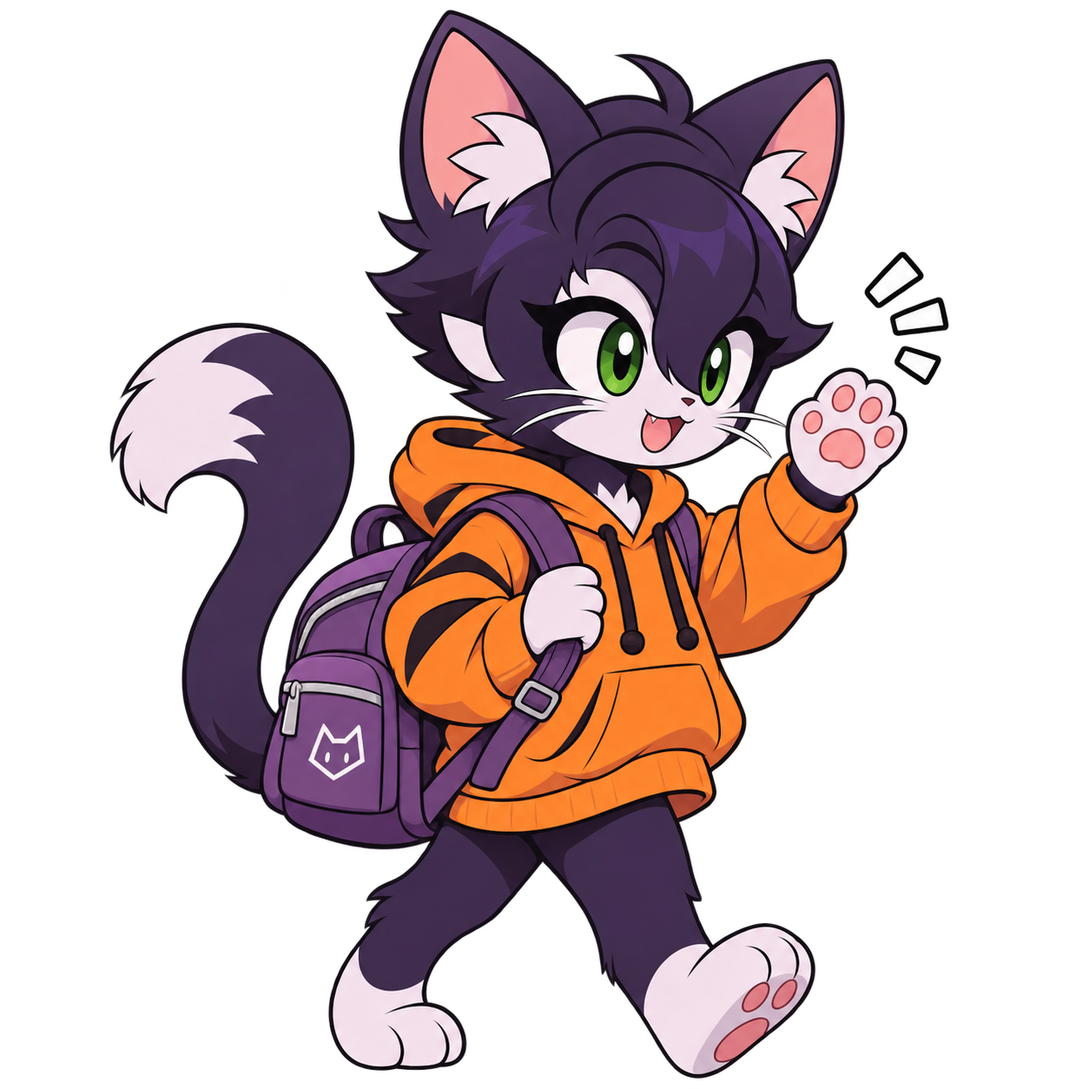
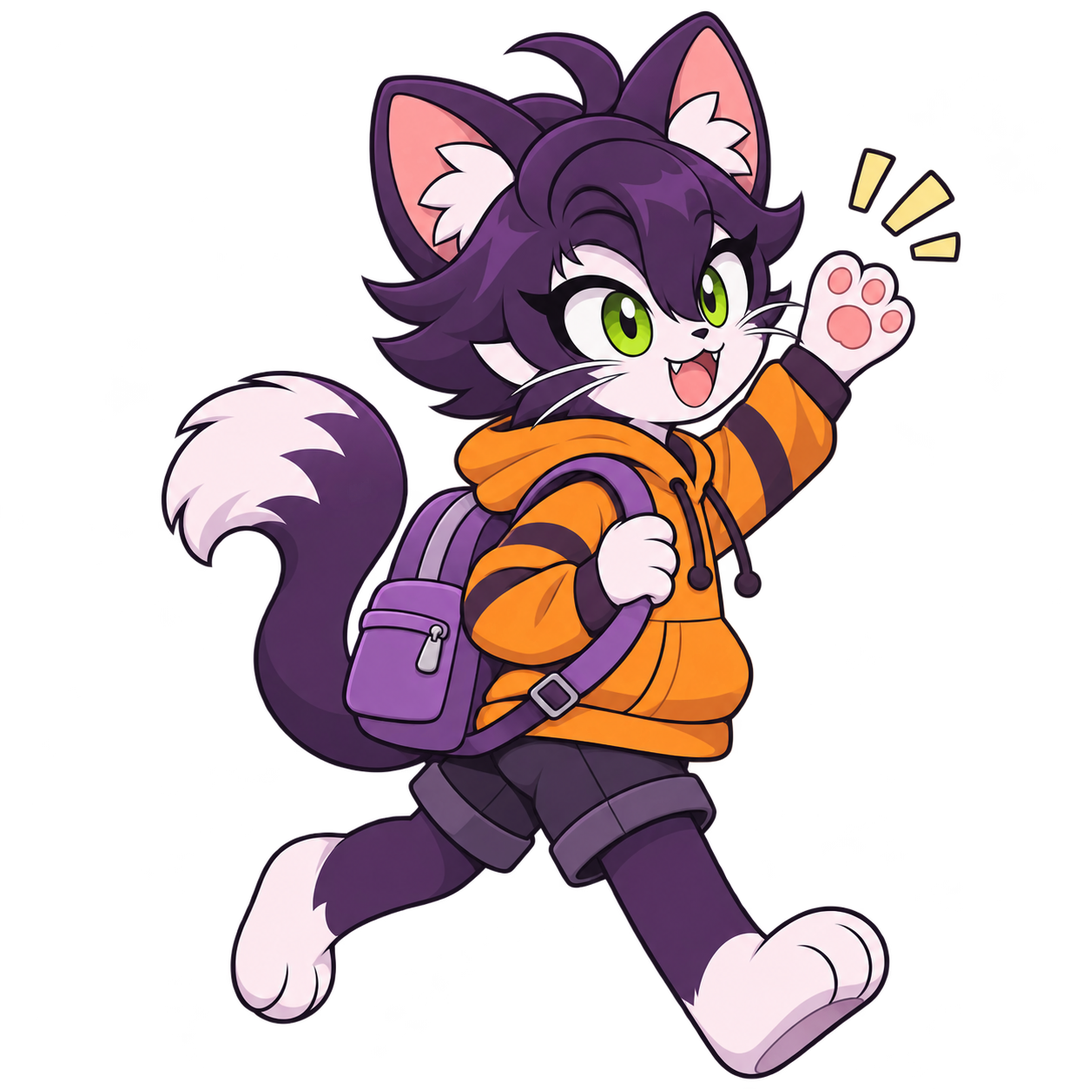
Refresh activity artwork with distinct poses and expressions

diff --git a/Shared/ClockModel.swift b/Shared/ClockModel.swift
@@ -51,7 +51,7 @@ enum Activity: String {
         case .focusedPC:   "Focused"
         case .lunch:       "Lunch"
         case .meeting:     "Meetings"
-        case .coffeeBreak: "Tea break"
+        case .coffeeBreak: "Coffee Break"
         case .leaving:     "Signing off"
         case .dinner:      "Dinner"
         case .relaxing:    "Off duty"

diff --git a/Docs/Art-Pipeline.md b/Docs/Art-Pipeline.md
@@ -1,58 +1,163 @@
 # Art Pipeline
 
-Activity captions use separate transparent manga lettering, composited over the
-character artwork. See [Label-Art.md](Label-Art.md) for assets and generation prompts.
+Activity captions remain separate transparent manga lettering; see [Label-Art.md](Label-Art.md).
 
-The current artwork uses `new-concept.png` as the character and style reference. All 13 activity illustrations were generated individually with the built-in imagegen tool, requesting a genuinely transparent background.
+## Character-first workflow
 
-`Art/<name>.png` contains the full-resolution master. `Shared/Assets.xcassets/cat_<name>.imageset/` contains a 480px copy with alpha preserved. Never convert these assets to RGB or add a background. The UI draws the silhouettes directly on a continuous sky.
+Generated with built-in imagegen, not the fallback CLI. First create `Art/character-design.png`, then use that sheet as the reference for each of the 13 independent activity generations. Preserve identity and drawing style, while varying posture, expression, outfit and essential furniture to make actions readable at widget size.
 
-## Reproduction prompts
+The design sheet has a white background. Every activity uses `transparent_background: true`. Reject painted backgrounds, background glow and multiple panels.
 
-Each scene uses the following template, replacing only the Scene sentence. Reference input: `new-concept.png`. Tool option: `transparent_background: true`.
+`Art/<name>.png` contains the full-resolution master. `Shared/Assets.xcassets/cat_<name>.imageset/<name>.png` contains the alpha-preserving 480px runtime copy. Asset names and labels are unchanged.
 
+## Design sheet prompt
+
+Reference input: the previous `Art/focused_pc.png` (before this regeneration), for identity and style only. Tool option: `transparent_background: false`.
+
+```text
+Use case: stylized-concept. Asset type: master character design reference sheet for an illustrated clock. Input image: character identity and drawing style reference only. Create a clean character model sheet of this same cute dark plum-purple anthropomorphic cat: large lime green eyes, white muzzle, cheek tufts, white paws and feet, fluffy swept forelock, large pink inner ears with white tufts, exactly one long fluffy purple tail with white tip. Preserve polished anime dark outlines and simple soft cel shading. Show full body front and side/three-quarter views in orange hoodie with black drawstrings and dark shorts, plus three expressive head studies (determined, yawning, delighted), plus a small full-body pale lavender button-up pajama outfit view. Consistent compact cute proportions. White background, orderly spacious layout, no text, no lettering, no watermark. This is a character reference sheet, not an activity scene. Entire bodies and tails visible.
 ```
-Use case: illustration-story. Asset: transparent macOS clock character illustration. Reference image is the exact character and art style guide. Draw this same charming dark plum-purple anthropomorphic cat, white muzzle, white paws and tail tip, large green eyes, swept fluffy hair, pink inner ears, orange hoodie with black drawstrings. Preserve the reference's polished anime ink outlines, soft cel shading and proportions faithfully. Scene: focused happily typing on a dark purple laptop, with a small coffee mug, simplified compact desk vignette. Composition: one centered character, square canvas, entire ears, tail and props visible with a little clear margin; large readable face; no rectangular scene or card. Genuine transparent background everywhere outside the character and essential props. No background, floor, lettering, watermark, sticker outline, or extra characters.
+
+## Final activity prompts
+
+Reference input for every prompt: `Art/character-design.png`. Tool option: `transparent_background: true`.
+
+### sleep
+
+```text
+Use case: illustration-story. Asset type: single transparent activity illustration for a small clock widget. Input image: master character design sheet, identity and style reference ONLY, do not reproduce the sheet layout or its poses. Draw exactly one of this same cute dark plum cat, lime green eyes, swept fluffy forelock, pink ears with white tufts, white muzzle and paws, exactly one fluffy white-tipped tail. Match polished dark anime outlines and simple cel shading throughout including props and food. Create a fresh expressive action composition. Square canvas, large readable character, entire ears and all essential props inside canvas with 5 percent margin. Isolated character with essential furniture only, genuine transparent background outside silhouettes, no room, floor, backdrop, card, text, letters, logos, watermarks or white sticker border. Scene: Sleeping deeply in a small wooden bed, lying horizontally on their side, head resting on a pillow, eyes completely closed and mouth relaxed. Wear lavender button-up pajamas from reference, with upper body visible above a soft purple blanket tucked over lower body. Clear bed headboard and short legs, gentle diagonal view. No hoodie. Bed and sleeping pose immediately recognizable.
 ```
 
-- **focused_pc**: focused happily typing on a dark purple laptop, with a small coffee mug, simplified compact desk vignette.
+### wake
 
-Inspect the generated image for character consistency, complete ears and tail, and genuine alpha before importing. Resize using an alpha-preserving image tool (for example `sips -Z 480`) and check the widget at daytime, nighttime and in reduced rendering modes.
+```text
+Use case: illustration-story. Asset type: single transparent activity illustration for a small clock widget. Input image: master character design sheet, identity and style reference ONLY, do not reproduce the sheet layout or its poses. Draw exactly one of this same cute dark plum cat, lime green eyes, swept fluffy forelock, pink ears with white tufts, white muzzle and paws, exactly one fluffy white-tipped tail. Match polished dark anime outlines and simple cel shading throughout including props and food. Create a fresh expressive action composition. Square canvas, large readable character, entire ears and all essential props inside canvas with 5 percent margin. Isolated character with essential furniture only, genuine transparent background outside silhouettes, no room, floor, backdrop, card, text, letters, logos, watermarks or white sticker border. Scene: Just waking up: seated on edge of a small bed with feet dangling, lavender pajamas, both arms stretched high and wide overhead, back arched, huge yawning mouth and shut eyes, rumpled forelock. Blanket pushed aside. Tall open V-shaped silhouette. No hoodie.
+```
 
-## Scene prompts
+### breakfast
 
-- **sleep**: sleeping peacefully curled up hugging a purple pillow, eyes closed, orange hoodie, fluffy tail wrapped around body, no bed or desk.
-- **wake**: waking up stretching both arms with a little yawn, seated on a small purple cushion, orange hoodie, no bed or desk.
-- **breakfast**: enjoying breakfast holding toast and a warm mug, orange hoodie, simple small plate of toast, no large table.
-- **sleepy_pc**: drowsily working at a dark purple laptop, half closed green eyes, one paw holding coffee, orange hoodie, minimal desk props.
-- **lunch**: happily eating a triangular lettuce, tomato and cheese sandwich held in both paws, orange hoodie, compact seated pose, minimal props.
-- **meeting**: cheerful video meeting wearing a headset and gesturing with one paw beside a dark purple laptop, orange hoodie.
-- **coffee_break**: taking a relaxing tea break, holding a steaming mug with both paws, eyes contentedly closed, orange hoodie, small cookie beside them.
-- **leaving**: walking home waving goodbye with one paw, wearing orange hoodie and a purple backpack, full body and tail visible.
-- **dinner**: enjoying a grilled steak dinner with vegetables, holding a fork with a bite of steak, orange hoodie, happy expression, minimal props.
-- **relaxing**: relaxing playing a video game with a purple controller held in both paws, seated on a small purple cushion, orange hoodie, excited green eyes.
-- **bedtime**: sleepily hugging a large purple pillow, eyes half closed yawning, orange hoodie, full tail visible, no bed.
-- **weekend**: enjoying a day off reading an open book seated comfortably with tail curled around a small purple cushion, orange hoodie, relaxed green eyes.
+```text
+Use case: illustration-story. Asset type: single transparent activity illustration for a small clock widget. Input image: master character design sheet, identity and style reference ONLY, do not reproduce the sheet layout or its poses. Draw exactly one of this same cute dark plum cat, lime green eyes, swept fluffy forelock, pink ears with white tufts, white muzzle and paws, exactly one fluffy white-tipped tail. Match polished dark anime outlines and simple cel shading throughout including props and food. Create a fresh expressive action composition. Square canvas, large readable character, entire ears and all essential props inside canvas with 5 percent margin. Isolated character with essential furniture only, genuine transparent background outside silhouettes, no room, floor, backdrop, card, text, letters, logos, watermarks or white sticker border. Scene: A bright energetic breakfast: standing in orange hoodie and dark shorts, holding a slice of buttered toast in one paw near an open smiling mouth, other paw pouring milk from a small plain pitcher into a cereal bowl on a tiny round breakfast table. Wide awake green eyes, ears perked. Body turned three-quarter toward viewer, upbeat upright posture. Food very simple flat cartoon shapes. Deliver ONE single isolated transparent cutout. No colored haze, glow, ground shadow or background.
+```
 
-Final corrections: reading has exactly one tail curled around the feet; the back of the meeting laptop has a simple white cat emblem, not a screen interface.
+### sleepy_pc
 
-## Meal illustration revision
+```text
+Use case: illustration-story. Asset type: single transparent activity illustration for a small clock widget. Input image: master character design sheet, identity and style reference ONLY, do not reproduce the sheet layout or its poses. Draw exactly one of this same cute dark plum cat, lime green eyes, swept fluffy forelock, pink ears with white tufts, white muzzle and paws, exactly one fluffy white-tipped tail. Match polished dark anime outlines and simple cel shading throughout including props and food. Create a fresh expressive action composition. Square canvas, large readable character, entire ears and all essential props inside canvas with 5 percent margin. Isolated character with essential furniture only, genuine transparent background outside silhouettes, no room, floor, backdrop, card, text, letters, logos, watermarks or white sticker border. Scene: Struggling to stay awake at a laptop on a compact desk: slumped deeply sideways in a chair, cheek squashed against one paw propped on desk, drooping eyelids with unfocused green eyes, small slack mouth, other paw limply over keyboard. Orange hoodie and dark shorts. Head hanging low, ears droop, utterly exhausted, visibly different from alert typing. One coffee mug nearby. Deliver ONE single isolated transparent cutout, not multiple panels. Transparent empty space surrounds all furniture.
+```
 
-Built-in imagegen precise-object edits of the previous lunch/dinner masters, with `transparent_background: true`.
+### focused_pc
 
-- **lunch**: Replace the ramen, bowl and chopsticks with a clearly recognizable triangular sandwich of sliced bread, lettuce, tomato and cheese. The cat is happily eating the sandwich, holding it in both paws near its mouth. No bowl, noodles or chopsticks remain.
-- **dinner**: Replace the pasta dinner with a grilled beef steak on the same plate, with clear sear marks and a small side of vegetables. The raised fork holds a bite-sized piece of steak near the mouth instead of pasta. No noodles or pasta remain. Keep the mug.
-
-Shared constraints: preserve character identity, dark purple fur, white markings, green eyes, orange hoodie, expression, ears, single tail, anime outlines and soft cel shading, framing, and genuine alpha. Change paws only as needed; no added text or background.
-
-## Food style unification (current)
-
-Built-in imagegen, transparent_background: true. These prompts supersede the earlier meal edits; food uses simple cel shading without realistic texture.
+```text
+Use case: illustration-story. Asset type: single transparent activity illustration for a small clock widget. Input image: master character design sheet, identity and style reference ONLY, do not reproduce the sheet layout or its poses. Draw exactly one of this same cute dark plum cat, lime green eyes, swept fluffy forelock, pink ears with white tufts, white muzzle and paws, exactly one fluffy white-tipped tail. Match polished dark anime outlines and simple cel shading throughout including props and food. Create a fresh expressive action composition. Square canvas, large readable character, entire ears and all essential props inside canvas with 5 percent margin. Isolated character with essential furniture only, genuine transparent background outside silhouettes, no room, floor, backdrop, card, text, letters, logos, watermarks or white sticker border. Scene: Working intensely at a laptop on a compact desk, leaning sharply forward, side three-quarter view, narrowed determined green eyes fixed on screen, mouth closed, both paws actively typing, ears alert, orange hoodie and dark shorts. Laptop screen faces cat. Compact chair, no coffee mug. Strong forward diagonal posture conveys concentration. Deliver ONE single isolated transparent cutout, not multiple panels. Transparent empty space surrounds all furniture.
+```
 
 ### lunch
 
-Use case: precise-object-edit. Input is the edit target. Redraw ALL food and food details in exactly the same simple anime/cartoon visual language as this cat's paws and hoodie: clean dark plum outlines of matching weight, smooth large flat color shapes, just one simple cel-shadow shape per surface. Food must look drawn by the same character artist, not pasted-in realistic food. No texture, stippling, pores, grain, speckles, realistic material rendering, intricate highlights, fine lines or microdetail. Preserve the cat identity, face, hair, fur, pose, orange hoodie, tail, composition, framing, utensils and other props. Genuine transparent background and alpha. No text or new objects. Keep the cat eating a triangular sandwich. Simplify bread to a completely smooth cream triangle and a plain tan crust, NO bread holes or dots. Fillings are just a few broad lettuce waves, one plain red tomato shape, one flat yellow cheese shape, each with at most one shadow tone. No seeds, veins, crumbs, gloss or tiny details. Make the entire sandwich as graphically simple as the hoodie.
+```text
+Use case: illustration-story. Asset type: single transparent activity illustration for a small clock widget. Input image: master character design sheet, identity and style reference ONLY, do not reproduce the sheet layout or its poses. Draw exactly one of this same cute dark plum cat, lime green eyes, swept fluffy forelock, pink ears with white tufts, white muzzle and paws, exactly one fluffy white-tipped tail. Match polished dark anime outlines and simple cel shading throughout including props and food. Create a fresh expressive action composition. Square canvas, large readable character, entire ears and all essential props inside canvas with 5 percent margin. Isolated character with essential furniture only, genuine transparent background outside silhouettes, no room, floor, backdrop, card, text, letters, logos, watermarks or white sticker border. Scene: Casual lunch break, sitting cross-legged on a small folded picnic cloth, leaning into a big triangular sandwich held in both paws and taking a big happy bite, cheeks puffed and delighted eyes curved shut. Orange hoodie and dark shorts. Small open lunchbox at their knee, sandwich has simple lettuce tomato cheese shapes. No table, cup, computer or chair. Clearly low compact cross-legged silhouette. Deliver ONE single isolated transparent cutout. No colored haze, glow, ground shadow or background.
+```
+
+### meeting
+
+```text
+Use case: illustration-story. Asset type: single transparent activity illustration for a small clock widget. Input image: master character design sheet, identity and style reference ONLY, do not reproduce the sheet layout or its poses. Draw exactly one of this same cute dark plum cat, lime green eyes, swept fluffy forelock, pink ears with white tufts, white muzzle and paws, exactly one fluffy white-tipped tail. Match polished dark anime outlines and simple cel shading throughout including props and food. Create a fresh expressive action composition. Square canvas, large readable character, entire ears and all essential props inside canvas with 5 percent margin. Isolated character with essential furniture only, genuine transparent background outside silhouettes, no room, floor, backdrop, card, text, letters, logos, watermarks or white sticker border. Scene: Energetically presenting at a meeting: standing full body beside a small freestanding presentation board showing only three simple colored bars and an upward line, no text. Orange hoodie and dark shorts, headset microphone, one arm confidently pointing to the board, other paw open toward audience, mouth open mid-explanation, eyebrows lifted. Wide assertive stance, full body visible. No laptop or desk. Deliver ONE single isolated transparent cutout, not multiple panels. Transparent empty space surrounds all furniture.
+```
+
+### coffee_break
+
+```text
+Use case: illustration-story. Asset type: single transparent activity illustration for a small clock widget. Input image: master character design sheet, identity and style reference ONLY, do not reproduce the sheet layout or its poses. Draw exactly one of this same cute dark plum cat, lime green eyes, swept fluffy forelock, pink ears with white tufts, white muzzle and paws, exactly one fluffy white-tipped tail. Match polished dark anime outlines and simple cel shading throughout including props and food. Create a fresh expressive action composition. Square canvas, large readable character, entire ears and all essential props inside canvas with 5 percent margin. Isolated character with essential furniture only, genuine transparent background outside silhouettes, no room, floor, backdrop, card, text, letters, logos, watermarks or white sticker border. Scene: Reclining comfortably in a compact armchair, legs crossed, one arm draped over armrest and other paw lifting a steaming coffee mug to nose, eyes closed with a contented smile. Orange hoodie and dark shorts. Backward diagonal pose. Only cat, chair and mug. Deliver ONE single isolated transparent cutout. No colored haze, glow, ground shadow or background.
+```
+
+### leaving
+
+```text
+Use case: illustration-story. Asset type: single transparent activity illustration for a small clock widget. Input image: master character design sheet, identity and style reference ONLY, do not reproduce the sheet layout or its poses. Draw exactly one of this same cute dark plum cat, lime green eyes, swept fluffy forelock, pink ears with white tufts, white muzzle and paws, exactly one fluffy white-tipped tail. Match polished dark anime outlines and simple cel shading throughout including props and food. Create a fresh expressive action composition. Square canvas, large readable character, entire ears and all essential props inside canvas with 5 percent margin. Isolated character with essential furniture only, genuine transparent background outside silhouettes, no room, floor, backdrop, card, text, letters, logos, watermarks or white sticker border. Scene: Full-body brisk walking stride, one foot forward and other raised behind, head turned back over shoulder, big cheerful smile, one paw waving high and other holding purple backpack strap. Orange hoodie and dark shorts, tail trailing. Only cat and backpack. Deliver ONE single isolated transparent cutout. No colored haze, glow, ground shadow or background.
+```
 
 ### dinner
 
-Use case: precise-object-edit. Input is the edit target. Redraw ALL food and food details in exactly the same simple anime/cartoon visual language as this cat's paws and hoodie: clean dark plum outlines of matching weight, smooth large flat color shapes, just one simple cel-shadow shape per surface. Food must look drawn by the same character artist, not pasted-in realistic food. No texture, stippling, pores, grain, speckles, realistic material rendering, intricate highlights, fine lines or microdetail. Preserve the cat identity, face, hair, fur, pose, orange hoodie, tail, composition, framing, utensils and other props. Genuine transparent background and alpha. No text or new objects. Keep the cat eating steak, with a steak bite on the fork and steak on the plate. Draw the steak as a simple rounded brown cartoon shape with only THREE broad dark diagonal grill stripes and one flat shadow. The fork bite is a plain brown/pink block with a clean outline and single cel shadow. Simplify side vegetables to a few smooth green/orange shapes. Remove herb sprigs, tiny florets, seeds, marbling, meat fibers, grain, shiny spots and all realistic food texture. Keep the plate and mug.
+```text
+Use case: illustration-story. Asset type: single transparent activity illustration for a small clock widget. Input image: master character design sheet, identity and style reference ONLY, do not reproduce the sheet layout or its poses. Draw exactly one of this same cute dark plum cat, lime green eyes, swept fluffy forelock, pink ears with white tufts, white muzzle and paws, exactly one fluffy white-tipped tail. Match polished dark anime outlines and simple cel shading throughout including props and food. Create a fresh expressive action composition. Square canvas, large readable character, entire ears and all essential props inside canvas with 5 percent margin. Isolated character with essential furniture only, genuine transparent background outside silhouettes, no room, floor, backdrop, card, text, letters, logos, watermarks or white sticker border. Scene: Enjoying steak dinner at a small dining table, orange hoodie and dark shorts, seated straight with a pleased expectant grin, a fork in one raised paw and a dinner knife in the other poised above a plate of steak and simple vegetables. Front three-quarter view, elbows spread, steak obvious with only three broad grill stripes. Simple candle in holder at table edge suggests evening. All food simple outlined cartoon cel shading, no realistic texture. Deliver ONE single isolated transparent cutout. No colored haze, glow, ground shadow or background.
+```
+
+### relaxing
+
+```text
+Use case: illustration-story. Asset type: single transparent activity illustration for a small clock widget. Input image: master character design sheet, identity and style reference ONLY, do not reproduce the sheet layout or its poses. Draw exactly one of this same cute dark plum cat, lime green eyes, swept fluffy forelock, pink ears with white tufts, white muzzle and paws, exactly one fluffy white-tipped tail. Match polished dark anime outlines and simple cel shading throughout including props and food. Create a fresh expressive action composition. Square canvas, large readable character, entire ears and all essential props inside canvas with 5 percent margin. Isolated character with essential furniture only, genuine transparent background outside silhouettes, no room, floor, backdrop, card, text, letters, logos, watermarks or white sticker border. Scene: Excited gaming, sprawling diagonally across a compact beanbag, one leg stretched toward foreground and other bent, leaning back, both paws grip purple game controller, wide intense green eyes and exuberant open grin. Orange hoodie and dark shorts. Only cat, beanbag and controller. Deliver ONE single isolated transparent cutout. No colored haze, glow, ground shadow or background.
+```
+
+### bedtime
+
+```text
+Use case: illustration-story. Asset type: single transparent activity illustration for a small clock widget. Input image: master character design sheet, identity and style reference ONLY, do not reproduce the sheet layout or its poses. Draw exactly one of this same cute dark plum cat, lime green eyes, swept fluffy forelock, pink ears with white tufts, white muzzle and paws, exactly one fluffy white-tipped tail. Match polished dark anime outlines and simple cel shading throughout including props and food. Create a fresh expressive action composition. Square canvas, large readable character, entire ears and all essential props inside canvas with 5 percent margin. Isolated character with essential furniture only, genuine transparent background outside silhouettes, no room, floor, backdrop, card, text, letters, logos, watermarks or white sticker border. Scene: Getting ready for bed, standing full body in lavender pajamas and slippers, cradling a large pillow under one arm while rubbing one drooping eye with the other paw, head tilted and mouth making a little yawn. Slouched sleepy standing posture. No bed, no hoodie.
+```
+
+### weekend
+
+```text
+Use case: illustration-story. Asset type: single transparent activity illustration for a small clock widget. Input image: master character design sheet, identity and style reference ONLY, do not reproduce the sheet layout or its poses. Draw exactly one of this same cute dark plum cat, lime green eyes, swept fluffy forelock, pink ears with white tufts, white muzzle and paws, exactly one fluffy white-tipped tail. Match polished dark anime outlines and simple cel shading throughout including props and food. Create a fresh expressive action composition. Square canvas, large readable character, entire ears and all essential props inside canvas with 5 percent margin. Isolated character with essential furniture only, genuine transparent background outside silhouettes, no room, floor, backdrop, card, text, letters, logos, watermarks or white sticker border. Scene: Reading quietly, lounging sideways in a compact armchair, legs curled over one armrest, open purple book on raised knees held in both paws, thoughtful green eyes looking down at book and subtle serene smile. Cream T-shirt and dark shorts, tail draped beside chair. Side view, relaxed horizontal silhouette. Only cat, chair and book. Deliver ONE single isolated transparent cutout. No colored haze, glow, ground shadow or background.
+```
+
+## Import and validation
+
+Resize with `sips -Z 480 Art/<name>.png --out Shared/Assets.xcassets/cat_<name>.imageset/<name>.png`. Preserve alpha; never flatten onto a background. Check all 13 names, runtime dimensions, transparent pixels, complete silhouettes, and readable expressions and props on light and dark backgrounds at small sizes.
+
+## Follow-up adjustments (current)
+
+These built-in imagegen edits supersede the corresponding initial scene prompts above. Input: the activity master generated above as the edit target. Tool option: `transparent_background: true`. Keep the same filenames and regenerate the 480px runtime copies.
+
+### meeting
+
+```text
+Use case: precise-object-edit. Input image is the edit target. Preserve this exact cat identity, dark plum fur, white markings, green eyes, hair, orange hoodie, dark shorts, single tail, polished anime outlines, simple cel shading, square framing and genuine transparent alpha background. Keep everything unchanged except the requested changes. No background, floor, glow, text or watermark. Replace the standing presentation scene with a friendly web video meeting: cat seated comfortably at a compact desk with straight vertical legs, wearing its headset with boom microphone, looking toward an open laptop, one paw raised in a gentle conversational open-hand gesture and the other resting beside the keyboard. Soft relaxed eyebrows and rounded friendly eyes, small warm smile while speaking, no intense or assertive expression. Remove presentation board and chart entirely. Show laptop from rear three-quarter view, screen facing cat; no interface on back of laptop. Full chair and feet visible. Preserve character and illustration style, but change pose and furniture as required.
+```
+
+### dinner
+
+```text
+Use case: precise-object-edit. Input image is the edit target. Preserve this exact cat identity, dark plum fur, white markings, green eyes, hair, orange hoodie, dark shorts, single tail, polished anime outlines, simple cel shading, square framing and genuine transparent alpha background. Keep everything unchanged except the requested changes. No background, floor, glow, text or watermark. Remove the candle, flame and entire candle holder from the dining table. Fill their former location with the plain continuous wooden tabletop, leaving that area empty. Preserve all other content, especially face, pose, plate, food, utensils, chair and table shape.
+```
+
+### sleepy_pc
+
+```text
+Use case: precise-object-edit. Input image is the edit target. Preserve this exact cat identity, dark plum fur, white markings, green eyes, hair, orange hoodie, dark shorts, single tail, polished anime outlines, simple cel shading, square framing and genuine transparent alpha background. Keep everything unchanged except the requested changes. No background, floor, glow, text or watermark. Move the coffee mug and its coaster from the far side/back of the laptop to the near edge of the desk next to the cat's free paw, within easy reach, on the cat's side of the laptop. Ensure mug rests fully on tabletop with clear space and does not overlap the keyboard or paw. Remove mug from its original location, leaving only one mug. Preserve drowsy expression, slumped posture, laptop, chair and desk.
+```
+
+### relaxing
+
+```text
+Use case: precise-object-edit. Input image is the edit target. Preserve this exact cat identity, dark plum fur, white markings, green eyes, hair, orange hoodie, dark shorts, single tail, polished anime outlines, simple cel shading, square framing and genuine transparent alpha background. Keep everything unchanged except the requested changes. No background, floor, glow, text or watermark. Change only the facial expression to visibly joyful relaxed gaming: remove the sharply inward-slanting angry-looking eyebrows and intense stare. Use softly lifted relaxed brows, bright rounded happy green eyes and a warm broad laughing smile with lifted cheeks. The character is having fun, not fierce or competitive. Preserve sprawling pose, hands, controller, beanbag, ears, tail and framing.
+```
+
+### focused_pc
+
+```text
+Use case: precise-object-edit. Input image is the edit target. Preserve this exact cat identity, dark plum fur, white markings, green eyes, hair, orange hoodie, dark shorts, single tail, polished anime outlines, simple cel shading, square framing and genuine transparent alpha background. Keep everything unchanged except the requested changes. No background, floor, glow, text or watermark. Change the face to calm pleasant concentration: remove furrowed sharply angled brows, narrowed glare and frown; use relaxed neutral brows, attentive softly rounded green eyes looking at laptop and a small gentle closed-mouth smile. Preserve the forward typing posture. Replace the desk's slanted Z-shaped support frame with an ordinary simple rectangular desk supported by straight vertical legs that descend directly downward from tabletop corners, parallel to the image's vertical axis, no diagonal braces or slanted supports. Keep tabletop, chair, laptop and other content unchanged.
+```
+
+## Second follow-up adjustments (current)
+
+These built-in imagegen edits supersede the previous edits for sleepy_pc and relaxing. Input: the previous activity master. Tool option: `transparent_background: true`.
+
+### sleepy_pc
+
+```text
+Use case: precise-object-edit. Input image is the edit target. Preserve exact cat identity, plum fur, white markings, hair, orange hoodie, dark shorts, single tail, polished anime outlines and cel shading, square framing and genuine transparent alpha background. No background, floor, text, watermark or glow. Correct only the desk construction. It must be a conventional rectangular desk with exactly FOUR straight vertical legs, one attached beneath EACH of the four tabletop corners. Make all four legs visibly identifiable, including the currently missing front-left leg beneath the tabletop near the cat's free paw. Place that front-left leg in front of the cat's shins where physically appropriate, with correct occlusion. Keep all four legs vertical, parallel, distinct and properly supporting the tabletop, with no diagonal supports. Remove the low horizontal rectangular foot frame to make the four individual legs unambiguous. Preserve the tabletop, laptop, mug at the cat's hand, sleepy face, slumped pose, chair, feet and tail; change only necessary occlusion for the fourth desk leg.
+```
+
+### relaxing
+
+```text
+Use case: precise-object-edit. Input image is the edit target. Preserve exact cat identity, plum fur, white markings, hair, orange hoodie, dark shorts, single tail, polished anime outlines and cel shading, square framing and genuine transparent alpha background. No background, floor, text, watermark or glow. Change only leg pose and facial expression. The cat is still comfortably seated leaning back in the same purple beanbag and holding the same game controller. Bring BOTH thighs and knees close together, knees touching, with BOTH lower legs resting together and both feet side by side in a natural relaxed seated position. No spread legs, no raised knee to the side, no foot sole thrust toward the viewer. Change the face to a warm sincere beaming smile: both eyes softly closed in symmetrical upward happy crescents, relaxed brows, cheeks gently lifted, a small symmetrical closed-mouth U-shaped smile. No open mouth, tongue, teeth, smirk, sly expression or sideways grin. Preserve upper body, hands, controller, ears, tail and style; adjust beanbag contour only as needed.
+```
+
+## Sleep tail correction (current)
+
+Built-in imagegen edit of the preceding sleep master, with `transparent_background: true`. This supersedes the visible tail in the initial sleep illustration.
+
+```text
+Use case: precise-object-edit. Input image is the edit target. Make exactly one localized correction: completely hide the cat's tail beneath the purple blanket. Remove the entire visible purple-and-white fluffy tail sticking up through the blanket on the right. Restore a continuous natural smooth blanket surface and outer silhouette in that area, with simple cel-shaded fabric folds. Where the tail extended above the correct blanket contour, restore genuinely transparent background. No visible tail, no fur tuft, no hole or slit in the bedding, and no new bulge. Preserve everything else exactly: sleeping cat's face, head, ears, paws, lavender pajamas, pose, pillow, wooden bed, blanket colors, framing, polished anime outlines and soft cel shading. Preserve genuine transparent alpha everywhere outside the cat and bed. No background, floor, glow, text or watermark.
+```

diff --git a/Docs/Label-Art.md b/Docs/Label-Art.md
@@ -69,7 +69,7 @@ Mood and variation: Lively discussion, rhythmic upright bold letters, cyan blue 
 ### coffee_break
 
 ```text
-Text (verbatim): "Tea break"
+Text (verbatim): "Coffee Break"
 Mood and variation: Warm relaxed pause, flowing rounded letters, mint green and warm cream accents, tiny steam curls.
 ```
 
@@ -108,3 +108,11 @@ Text (verbatim): "Reading"
 Mood and variation: Peaceful absorbed reading, gentle rounded hand lettering, sage green and pale gold accents, one quiet small sparkle.
 ```
 
+
+## Coffee Break wording correction
+
+Built-in imagegen edit of the previous coffee_break label, with `transparent_background: true`. The current wording is `Coffee Break`; the tea leaf accent is removed.
+
+```text
+Use case: text-localization. Input image is the edit target and exact lettering style reference. Replace the wording with exactly "Coffee Break" (capital C, capital B, two words separated by a clearly visible word space). Spell C-o-f-f-e-e B-r-e-a-k correctly. Preserve the same flowing bold rounded manga hand-lettering style, creamy white letter faces, thick very dark plum outlines, mint-green outer keyline, warm orange halftone lower extrusion, small cream steam curls and little yellow emphasis rays. Remove the tea leaf decoration so it no longer implies tea. Single wide horizontal line, readable at small widget size, all letters and accents fully visible, tight framing with small safe transparent margins. Genuine transparent alpha background including letter holes, no opaque backdrop, no checkerboard, no character, no additional text or watermark.
+```

diff --git a/Docs/Design-Decisions.md b/Docs/Design-Decisions.md
@@ -25,7 +25,7 @@ schedule were filled in by the implementer. Change them freely.
 ## Current design
 
 - Extra large (4×2) only, with the original office order.
-- Transparent color character illustrations follow `new-concept.png`: plum fur, green eyes, orange hoodie, and soft anime shading.
+- Transparent color character illustrations follow `Art/character-design.png`: plum fur, green eyes, white markings, and soft anime shading. Clothing, posture, expression and essential furniture vary by activity; sleep/wake/bedtime use lavender pajamas, and weekend reading uses a cream T-shirt. The orange hoodie remains the daytime outfit.
 - One continuous sky blends the four offices' local-time colors. No individual tile backgrounds, white image cards, borders or separators.
 - Each column places city, weekday and local time above the character, with a quiet activity caption below it.
 - Reduced rendering modes omit the sky and shadows; alpha-preserving desaturated artwork remains visible. Sun/moon symbols retain the day/night cue.
